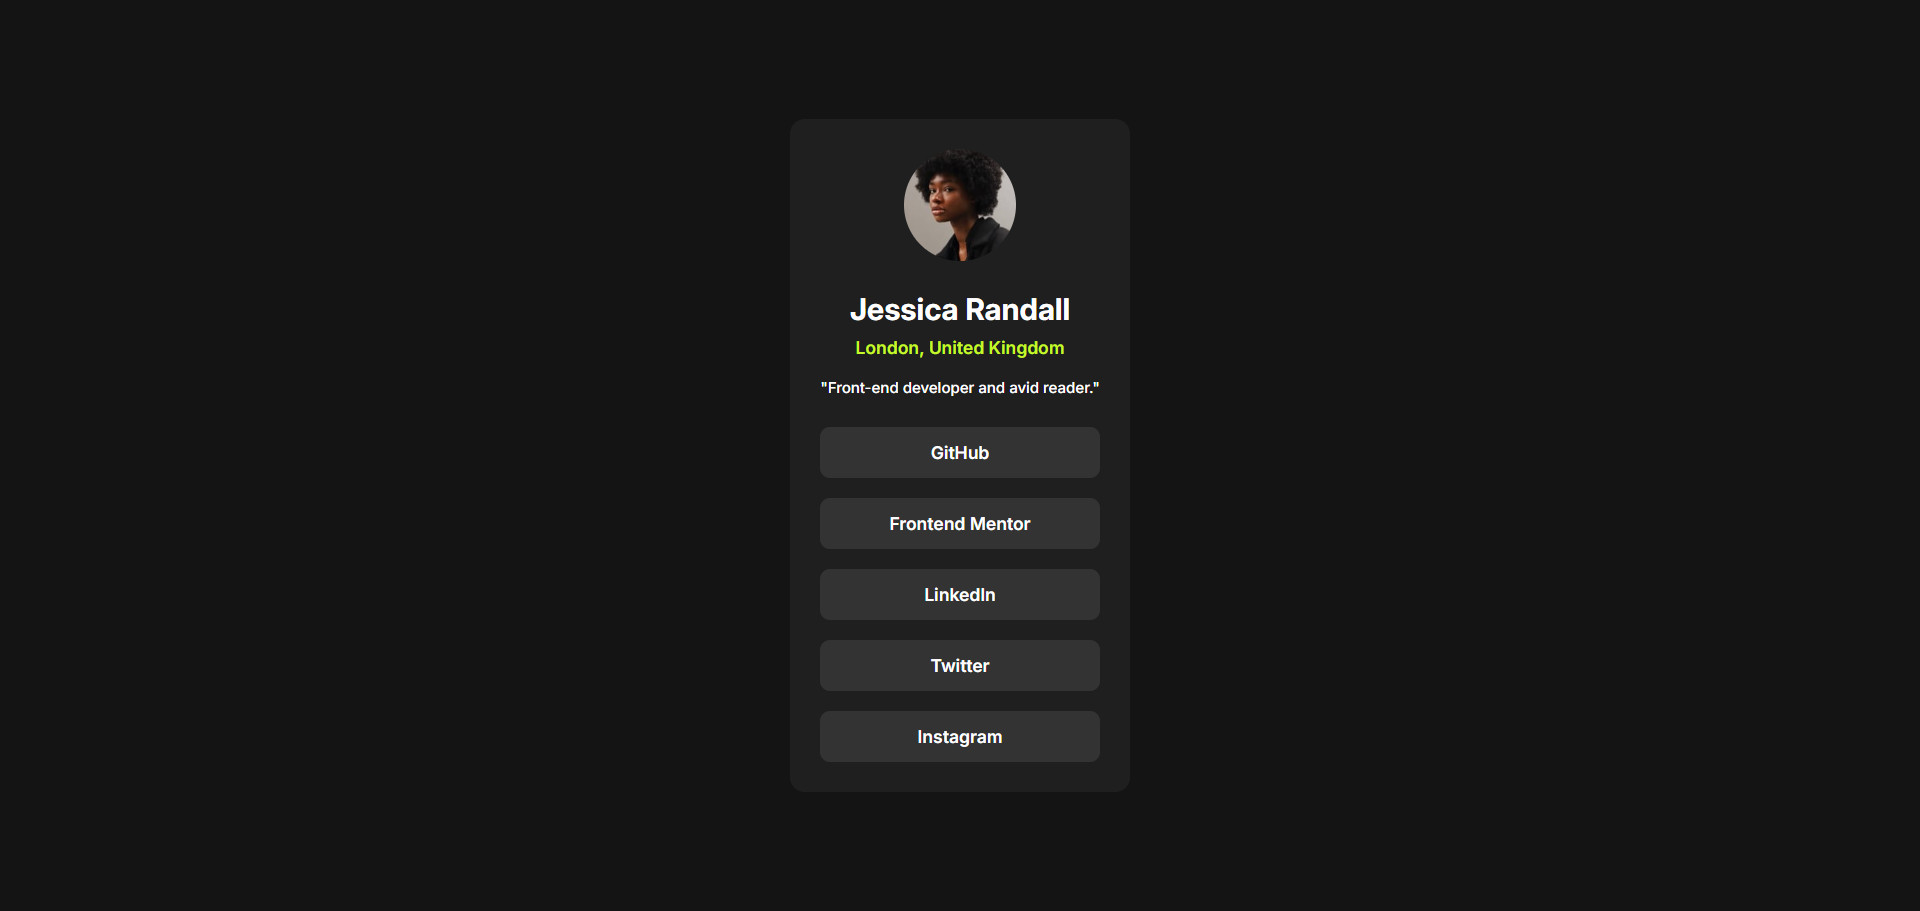
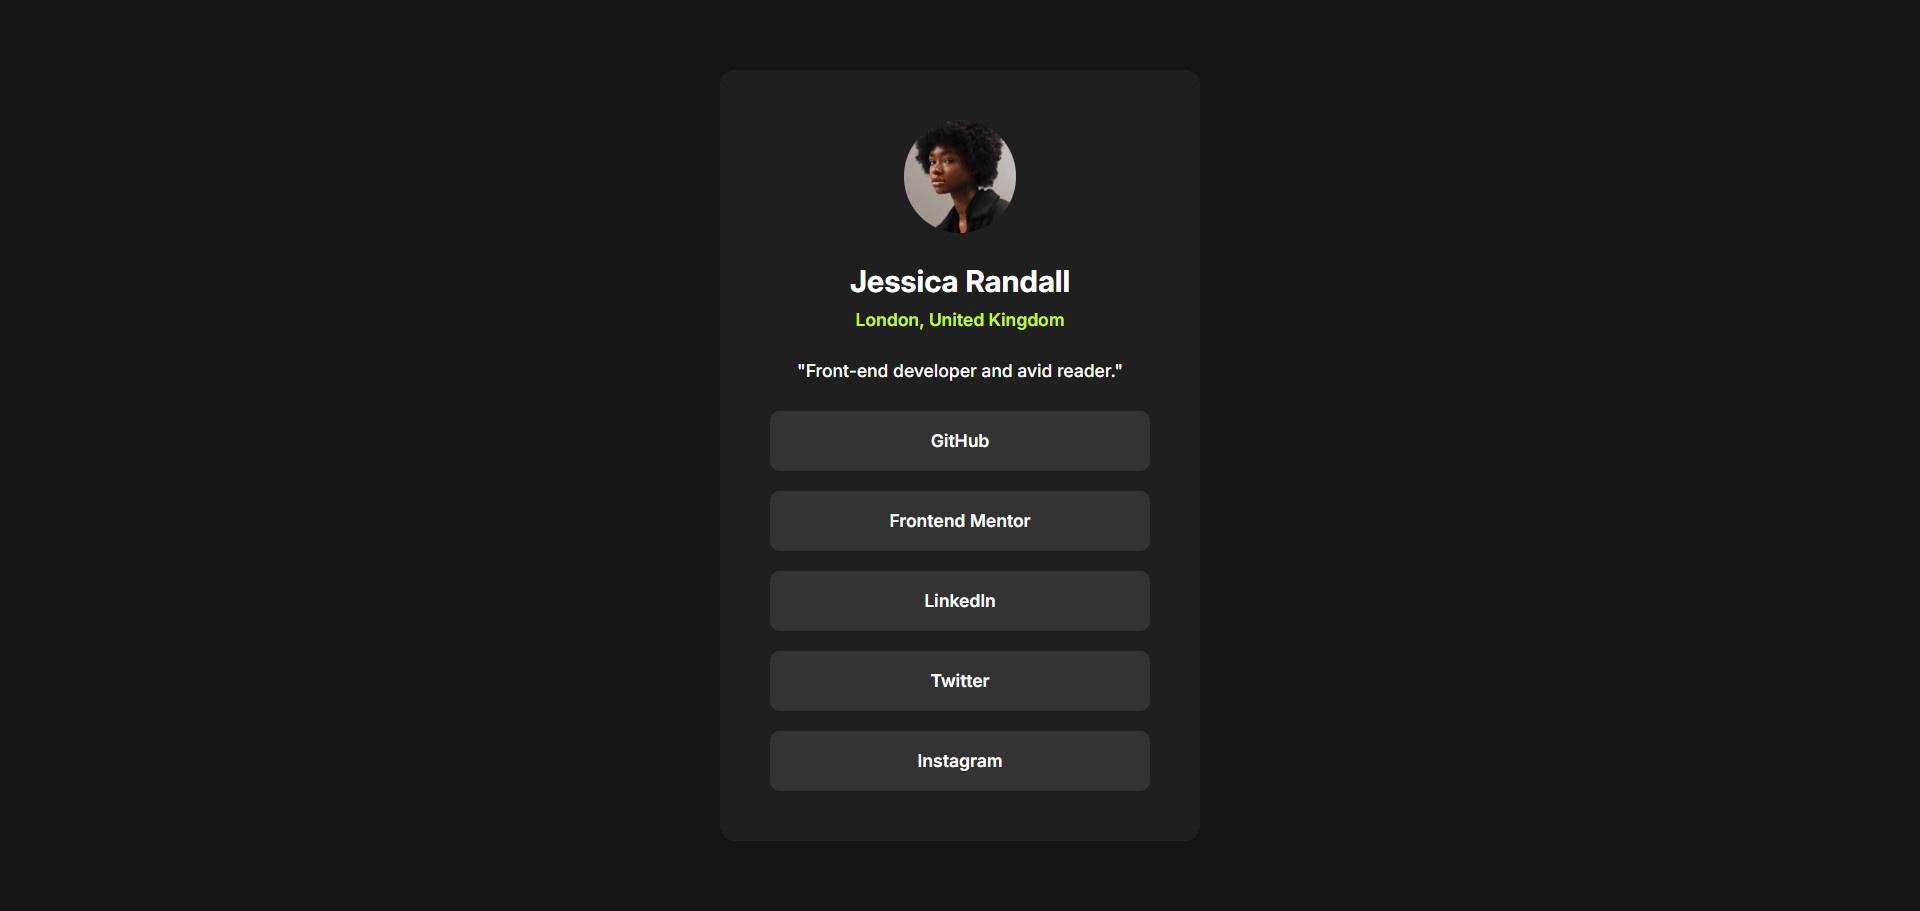
fix: update some spacing to match with design

diff --git a/style.css b/style.css
@@ -35,7 +35,7 @@ body {
   border-radius: 12px;
   background-color: var(--color-grey-800);
   gap: 24px;
-  max-width: 328px;
+  min-width: 328px;
 }
 
 .profile__image {
@@ -50,6 +50,7 @@ body {
   align-items: center;
   justify-content: center;
   gap: 8px;
+  /* margin: 8px 0px; */
 }
 
 .profile__name {
@@ -66,7 +67,7 @@ body {
 .profile__bio {
   font-size: 12px;
   font-weight: 500;
-  margin-top: 8px;
+  /* margin-top: 8px; */
 }
 
 .profile__links {
@@ -102,16 +103,19 @@ body {
   color: inherit;
   display: block;
   padding: 12px;
+  height: 48px;
+  line-height: 24px;
 }
 
 @media (min-width: 640px) {
   .profile {
-    max-width: 384px;
+    min-width: 384px;
+    padding: 40px;
   }
 
   .profile__location,
-  .profile_bio,
-  .profile__link {
+  .profile__link,
+  .profile__bio {
     font-size: 14px;
   }
 

diff --git a/index.html b/index.html
@@ -25,9 +25,10 @@
       <div class="profile__info">
         <h1 class="profile__name">Jessica Randall</h1>
         <p class="profile__location">London, United Kingdom</p>
-        <p class="profile__bio">"Front-end developer and avid reader."</p>
       </div>
-
+      
+      <p class="profile__bio">"Front-end developer and avid reader."</p>
+      
       <ul class="profile__links">
         <li class="profile__link profile__link--github">
           <a href="https://github.com/jessica_randall" target="_blank">

diff --git a/README.md b/README.md
@@ -19,7 +19,7 @@ This is a solution to the [Social links profile challenge on Frontend Mentor](ht
 ### Links
 
 - Solution URL: [https://github.com/tttam0113/fm-social-links-profile.git](https://github.com/tttam0113/fm-social-links-profile.git)
-- Live Site URL: [Add live site URL here](https://your-live-site-url.com)
+- Live Site URL: [https://fm-social-links-profile-rho.vercel.app/](https://fm-social-links-profile-rho.vercel.app/)
 
 ## My process
 
